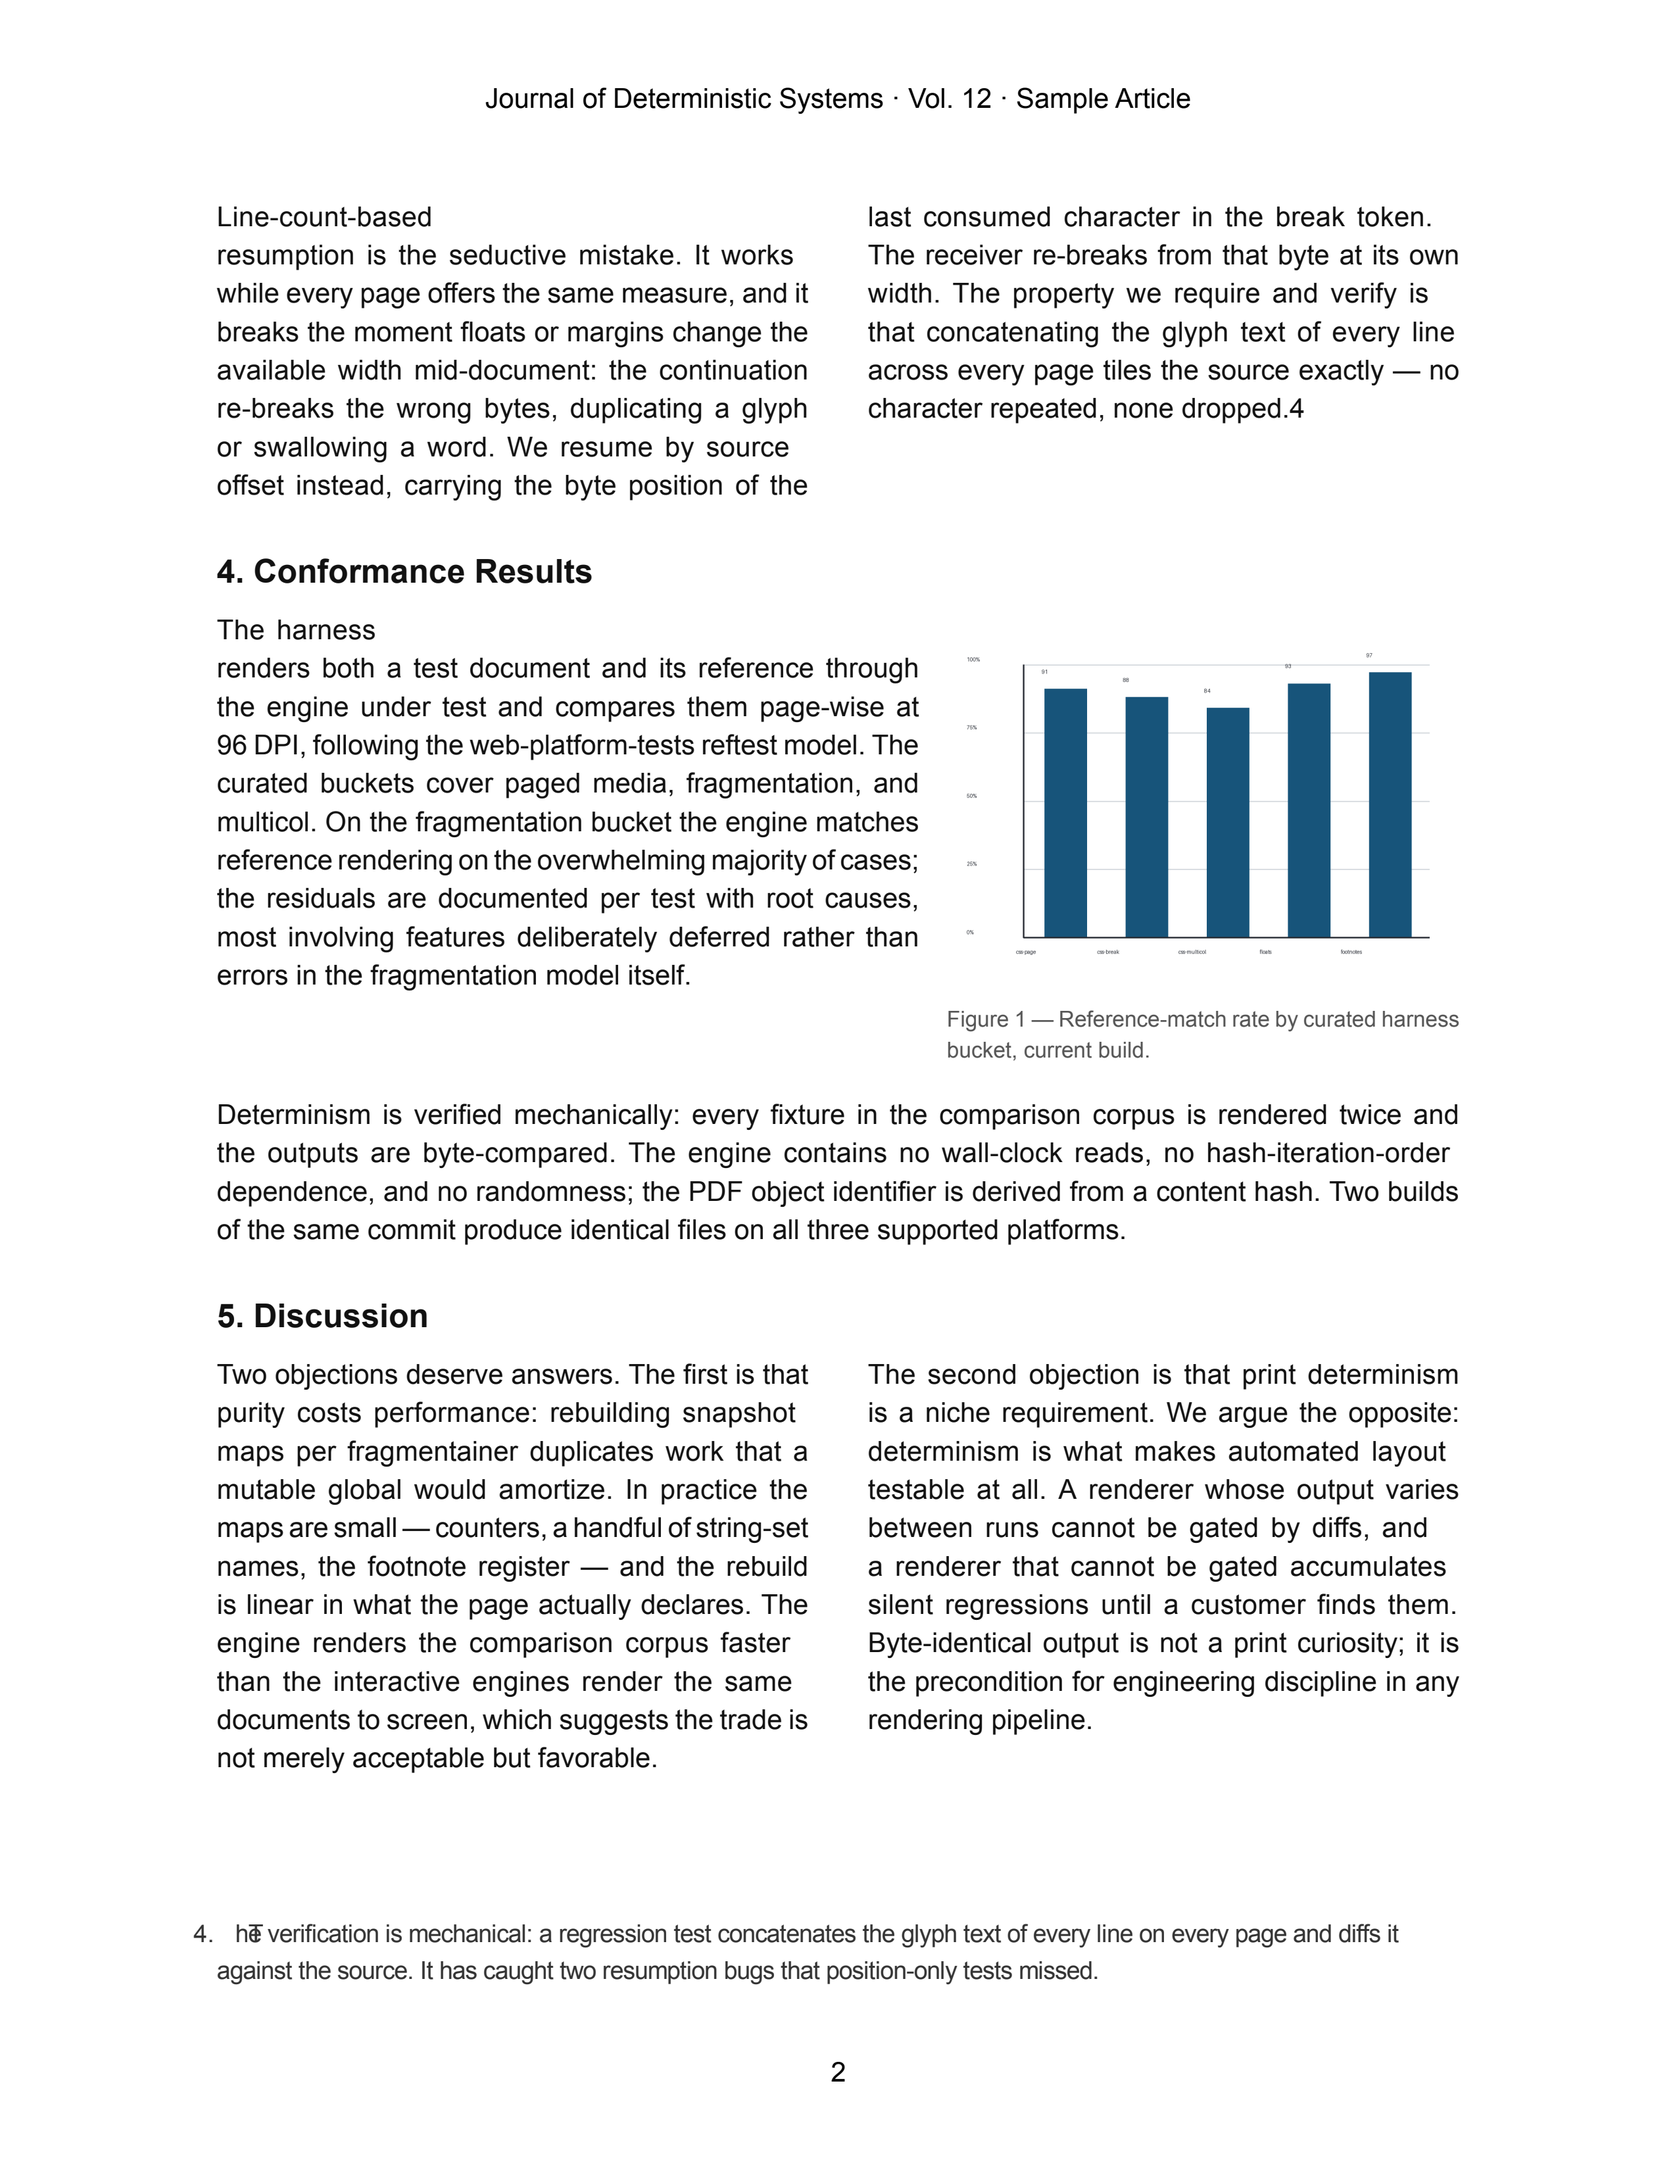
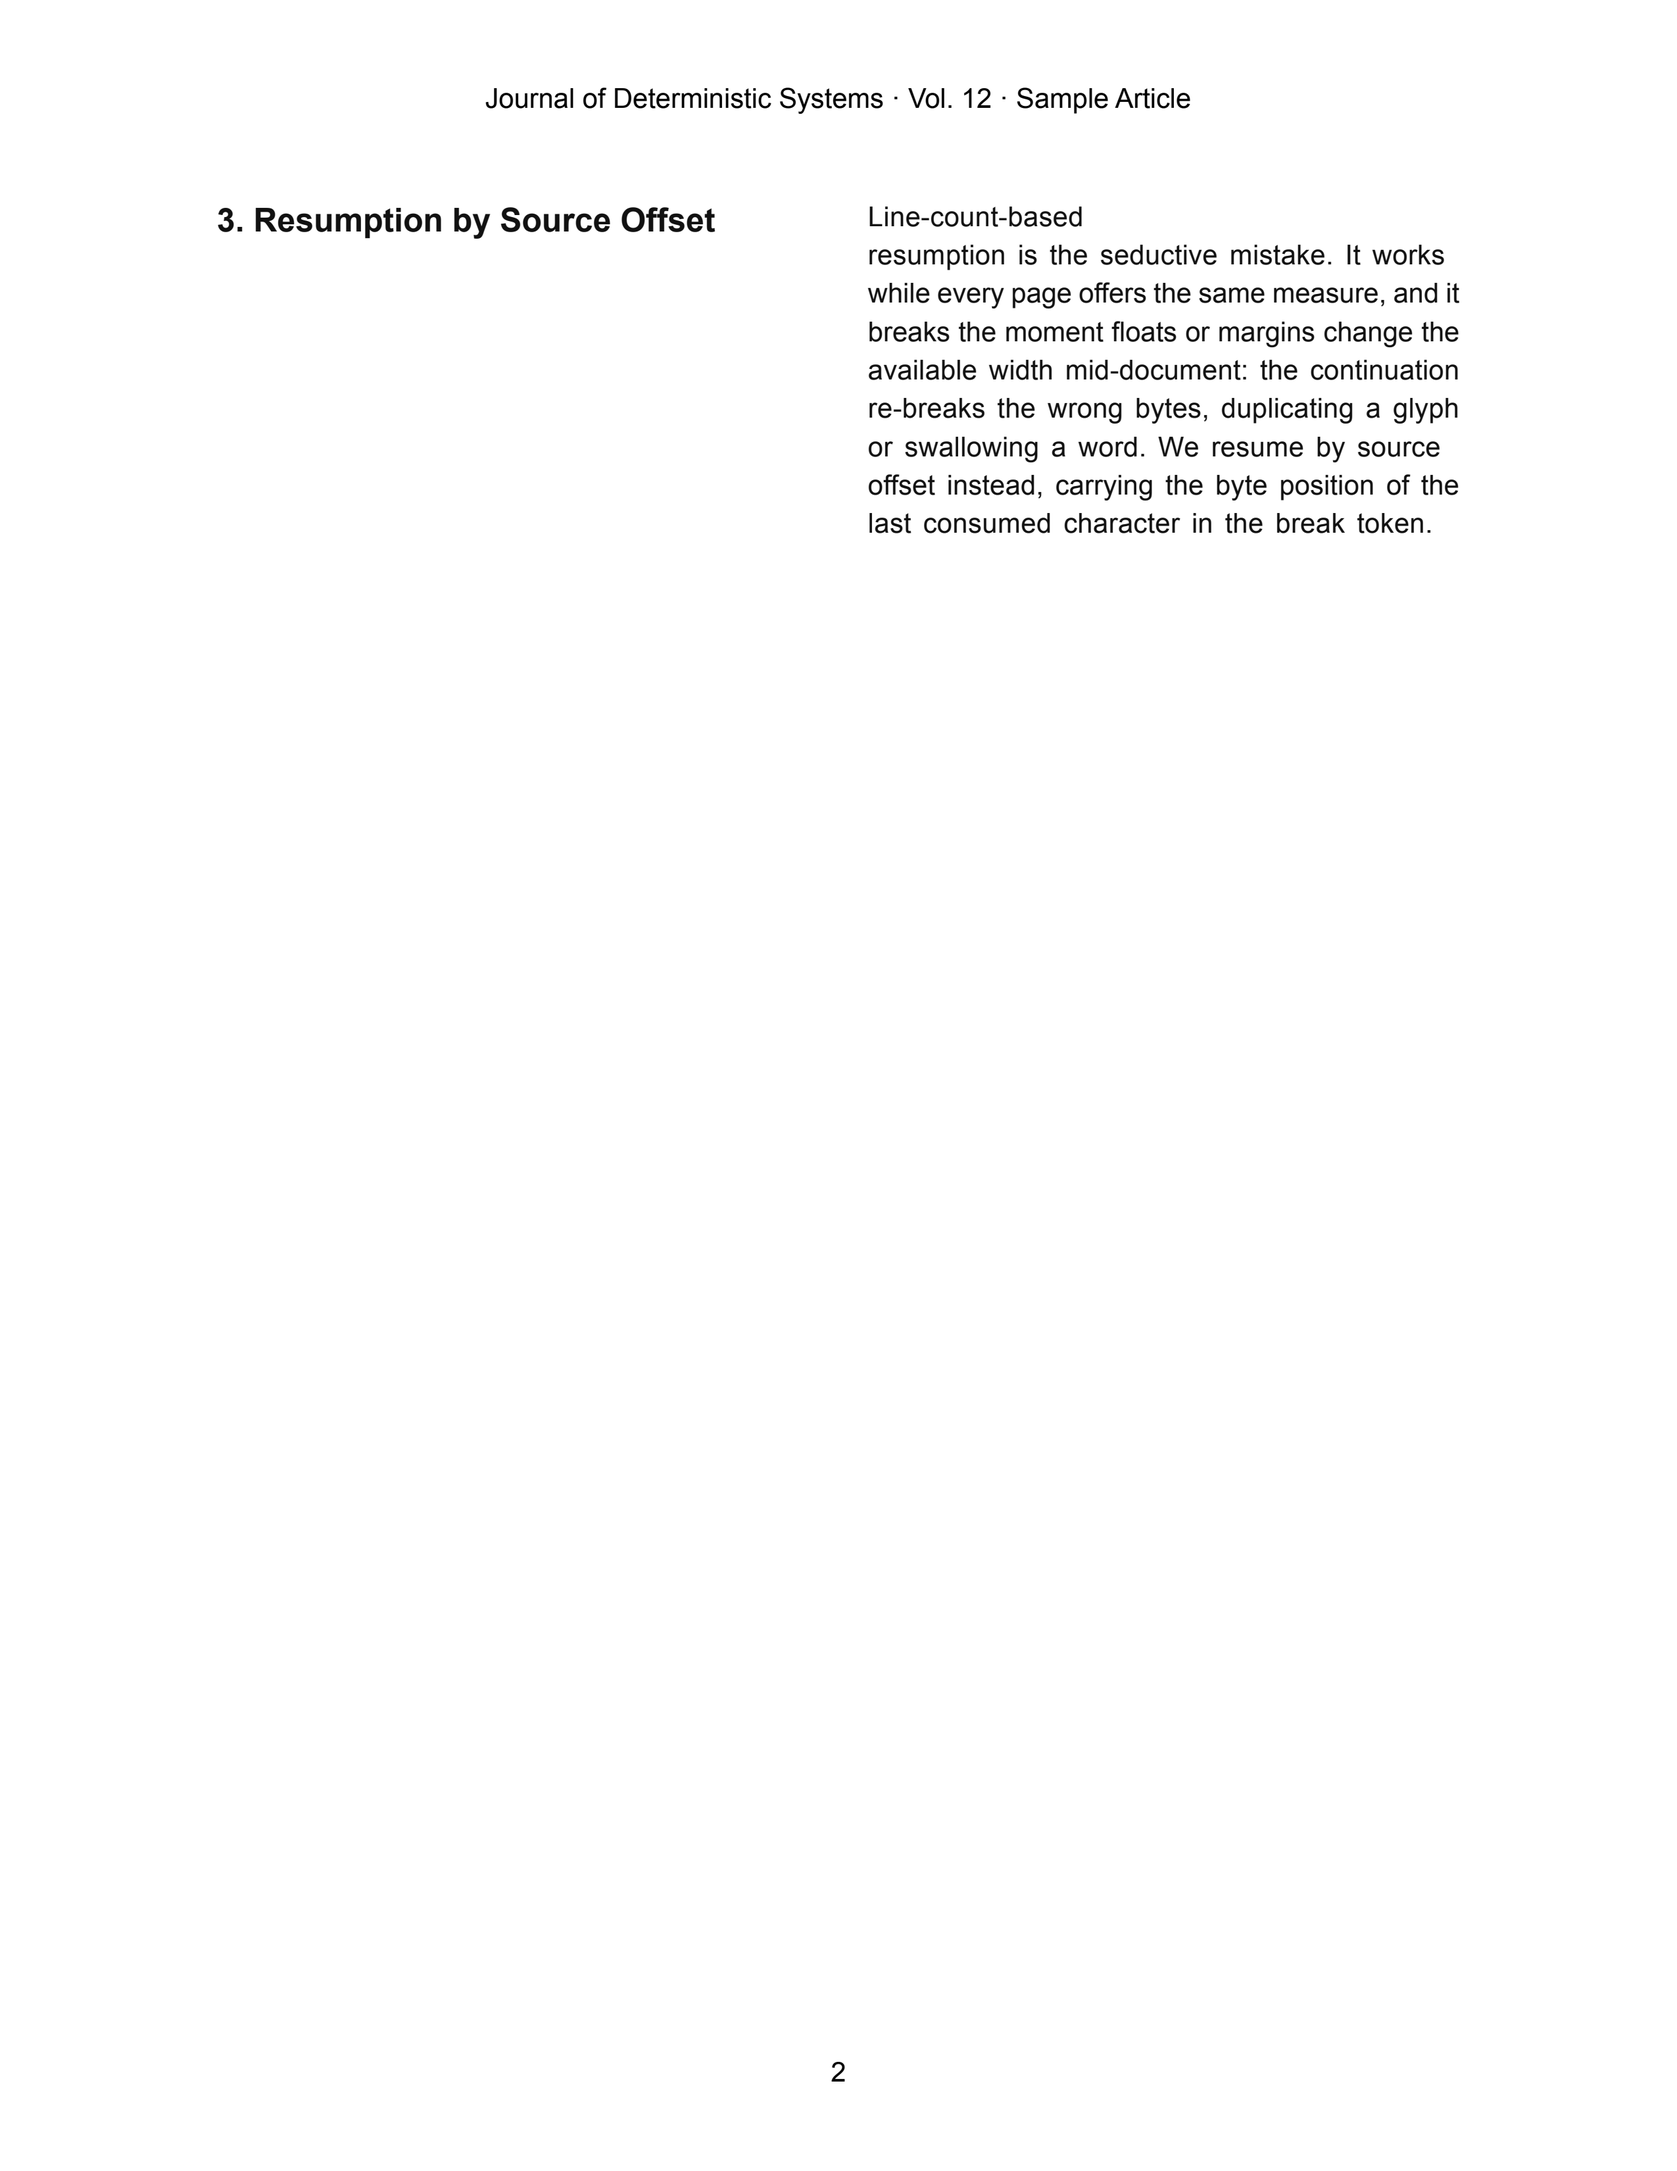
fix: multicol columns ignore the footnote band floor (CORE-150)
Root cause: layout_multicol_container skipped the page-bounded partial
fill when the container started fresh mid-page (the CORE-63 exception
`!fits && !(placed && y == content_top)`), laying the balanced set at
its full target height — past bottom_limit. CORE-78 re-anchored the
partial fill at the container cursor, so the exception only survived
as a bug: on a float:footnote page the columns painted straight
through the footnote band (showcase journal p1: heading strike-through
over notes 1-3).

Fix: drop the obsolete exception — every over-height set fills columns
against the fragmentainer floor (footnote band top included, via
CORE-107's two-attempt re-lay) and fragments the rest to the next page.

Test: engine/src/layout.rs core150_tests::multicol_columns_stop_above_
footnote_band — fails pre-fix, passes post-fix; full engine suite 244
passed / 0 failed.

Gate (fresh branch-point binary 96f433d vs fix): css-page and
css-break buckets identical; css-multicol flip explained as removal of
a two-wrongs-matching false PASS (browsers fragment both sides across
~4 pages; residual = nested-multicol fragmentation, CORE-143 scope).

Showcase gallery re-rendered (journal now 4 pages).

diff --git a/engine/src/layout.rs b/engine/src/layout.rs
@@ -5748,3 +5748,124 @@ fn parse_px_attr(v: &str) -> Option<f64> {
     }
     t.parse::<f64>().ok().filter(|n| n.is_finite() && *n >= 0.0)
 }
+
+#[cfg(test)]
+mod core150_tests {
+    use super::*;
+    use crate::css::Stylesheet;
+    use crate::geom::PageGeometry;
+
+    /// Walk a fragment tree accumulating parent-relative offsets into
+    /// page-absolute coordinates. Mirrors the PDF emitter's walk (pdf.rs):
+    /// a Text run's baseline is PARENT-relative — rebased off the parent's
+    /// absolute origin, not the fragment's own offset.
+    fn collect_text_baselines(frag: &Fragment, px: f64, py: f64, out: &mut Vec<(f64, f64)>) {
+        let ax = px + frag.offset.x.get();
+        let ay = py + frag.offset.y.get();
+        if let FragmentContent::Text(run) = &frag.content {
+            out.push((px + run.baseline.x.get(), py + run.baseline.y.get()));
+        }
+        for child in &frag.children {
+            collect_text_baselines(child, ax, ay, out);
+        }
+    }
+
+    /// CORE-150: a multicol container on a page with `float: footnote`
+    /// notes must lay its columns against the footnote band's raised
+    /// floor — the lowest column-body baseline may not sit below the
+    /// band top. (The old multicol path laid a mid-page container's
+    /// balanced set at its full target height, past `bottom_limit`,
+    /// painting body text straight through the footnote band.)
+    #[test]
+    fn multicol_columns_stop_above_footnote_band() {
+        let css = r#"
+            @page { size: 6in 4in; margin: 0.5in; }
+            .cols { column-count: 2; }
+            .fn { float: footnote; }
+        "#;
+        let mut body = String::new();
+        for i in 1..=16 {
+            body.push_str(&format!(
+                "<p>Paragraph {} text.<a class=\"fn\">Note {} text.</a></p>\n",
+                i, i
+            ));
+        }
+        let html = format!(
+            r#"<html><head><style>{}</style></head><body>
+            <h1>Heading</h1>
+            <div class="cols">
+            {}
+            </div>
+        </body></html>"#,
+            css, body
+        );
+        let dom = Dom::parse(&html).expect("parse");
+        let stylesheet = Stylesheet::parse(css);
+        // @page size/margins live in the page rules, not the CLI geometry;
+        // the geometry below is only the fallback and the @page rule wins.
+        let geometry = PageGeometry {
+            width: Scalar(432.0),
+            height: Scalar(288.0),
+            margin_top: Scalar(36.0),
+            margin_right: Scalar(36.0),
+            margin_bottom: Scalar(36.0),
+            margin_left: Scalar(36.0),
+        };
+        let laid = layout(&dom, &stylesheet, geometry);
+        assert!(!laid.pages.is_empty(), "no pages laid out");
+        let page = &laid.pages[0];
+
+        // Gather every painted text baseline (page-absolute, top-left).
+        let mut baselines = Vec::new();
+        collect_text_baselines(&page.root, 0.0, 0.0, &mut baselines);
+        assert!(
+            baselines.len() >= 5,
+            "expected column + footnote text, got {} baselines",
+            baselines.len()
+        );
+
+        // Footnote notes render 8.5pt text (CORE-107 hardcoded size) with
+        // the note hanging MARKER_HANG=8.5pt left of the content edge
+        // (content left = margin 36pt). Notes are the baselines whose x
+        // sits left of the content edge.
+        let content_left = 36.0;
+        let note_ys: Vec<f64> = baselines
+            .iter()
+            .filter(|(x, _)| *x < content_left)
+            .map(|(_, y)| *y)
+            .collect();
+        assert!(
+            !note_ys.is_empty(),
+            "no footnote note baselines found on page 0 (notes hang left of the content edge)"
+        );
+
+        // Body-column baselines are everything at/inside the content edge.
+        let body_ys: Vec<f64> = baselines
+            .iter()
+            .filter(|(x, _)| *x >= content_left)
+            .map(|(_, y)| *y)
+            .collect();
+        let max_body_y = body_ys
+            .iter()
+            .cloned()
+            .fold(f64::NEG_INFINITY, f64::max);
+
+        // The invariant: columns must stay above the band top. The band
+        // floor for this assertion is the first (highest) note baseline
+        // minus one note line pitch (attach_footnotes paints notes at
+        // 13.45pt pitch); any column baseline below it means the columns
+        // ignored the raised floor.
+        let first_note_y = note_ys
+            .iter()
+            .cloned()
+            .fold(f64::INFINITY, f64::min);
+        let band_floor = first_note_y - 13.45;
+        assert!(
+            max_body_y <= band_floor,
+            "column body baseline at y={:.1} paints below the footnote band \
+             floor at y={:.1} (columns ignored the band floor)",
+            max_body_y,
+            band_floor
+        );
+    }
+}

diff --git a/engine/src/layout/multicol.rs b/engine/src/layout/multicol.rs
@@ -159,7 +159,7 @@ impl<'a> Ctx<'a> {
             if lay_set {
                 let (s0, s1, target) = sets[set_i];
                 let fits = y + target <= bottom_limit;
-                if !fits && !(placed && y == content_top) {
+                if !fits {
                     // The set does not fit the page: fill the remaining page
                     // with as many columns as fit — anchored at the
                     // container's current cursor (anchoring at the page
@@ -172,6 +172,17 @@ impl<'a> Ctx<'a> {
                     // page's columns is DONE: do not fragment (fragmenting
                     // with an empty child token would re-lay the same set
                     // with no cursor advance).
+                    //
+                    // CORE-150: this branch must also fire when the container
+                    // starts fresh mid-page (`placed && y == content_top`).
+                    // CORE-63 excepted that case and laid the balanced set at
+                    // its full target height — past `bottom_limit` — because
+                    // the then page-bottom-anchored partial fill had zero
+                    // room. CORE-78 re-anchored the partial fill at the
+                    // container cursor, so the exception only survives as a
+                    // bug: the columns ignore the fragmentainer floor
+                    // entirely (the footnote band on a `float: footnote`
+                    // page, the bottom margin on any page).
                     let set_top = y;
                     let (cols, consumed_upto, tok) = self.fill_columns_partial(
                         id,

diff --git a/demo/showcase/README.md b/demo/showcase/README.md
@@ -25,7 +25,7 @@ The bar-chart bars-outside-plot issue (first/last bar crossing the axis,
 
 ## Showcase — print-resolution renders (US Letter @ 300 DPI)
 
-Realistic-size pages rendered by the TypeAnvil engine only (commit `bb1991f`). The side-by-side comparison gallery lives in [the main demo README](../README.md) and runs at 5in × 3in @ 96 DPI so diffs stay cheap; these pages show the same engine at the geometry documents actually print at. Prince renders only the comparison pipeline — the showcase is a TypeAnvil output gallery, not a diff target.
+Realistic-size pages rendered by the TypeAnvil engine only (commit `13dee63`). The side-by-side comparison gallery lives in [the main demo README](../README.md) and runs at 5in × 3in @ 96 DPI so diffs stay cheap; these pages show the same engine at the geometry documents actually print at. Prince renders only the comparison pipeline — the showcase is a TypeAnvil output gallery, not a diff target.
 
 ### Book Sample
 
@@ -45,6 +45,7 @@ Realistic-size pages rendered by the TypeAnvil engine only (commit `bb1991f`). T
 <img src="out/images/journal/page-001-ta.png" alt="Academic Sample — page-001-ta" width="420">
 <img src="out/images/journal/page-002-ta.png" alt="Academic Sample — page-002-ta" width="420">
 <img src="out/images/journal/page-003-ta.png" alt="Academic Sample — page-003-ta" width="420">
+<img src="out/images/journal/page-004-ta.png" alt="Academic Sample — page-004-ta" width="420">
 
 ### Rich Media Print
 

diff --git a/demo/showcase/out/index.md b/demo/showcase/out/index.md
@@ -1,6 +1,6 @@
 ## Showcase — print-resolution renders (US Letter @ 300 DPI)
 
-Realistic-size pages rendered by the TypeAnvil engine only (commit `bb1991f`). The side-by-side comparison gallery lives in [the main demo README](../README.md) and runs at 5in × 3in @ 96 DPI so diffs stay cheap; these pages show the same engine at the geometry documents actually print at. Prince renders only the comparison pipeline — the showcase is a TypeAnvil output gallery, not a diff target.
+Realistic-size pages rendered by the TypeAnvil engine only (commit `13dee63`). The side-by-side comparison gallery lives in [the main demo README](../README.md) and runs at 5in × 3in @ 96 DPI so diffs stay cheap; these pages show the same engine at the geometry documents actually print at. Prince renders only the comparison pipeline — the showcase is a TypeAnvil output gallery, not a diff target.
 
 ### Book Sample
 
@@ -20,6 +20,7 @@ Realistic-size pages rendered by the TypeAnvil engine only (commit `bb1991f`). T
 <img src="images/journal/page-001-ta.png" alt="Academic Sample — page-001-ta" width="420">
 <img src="images/journal/page-002-ta.png" alt="Academic Sample — page-002-ta" width="420">
 <img src="images/journal/page-003-ta.png" alt="Academic Sample — page-003-ta" width="420">
+<img src="images/journal/page-004-ta.png" alt="Academic Sample — page-004-ta" width="420">
 
 ### Rich Media Print
 
